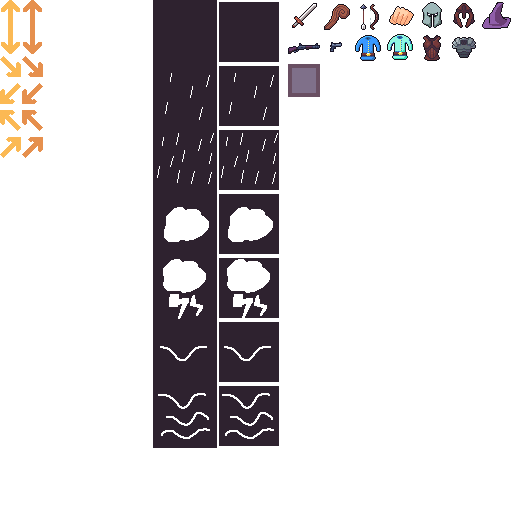
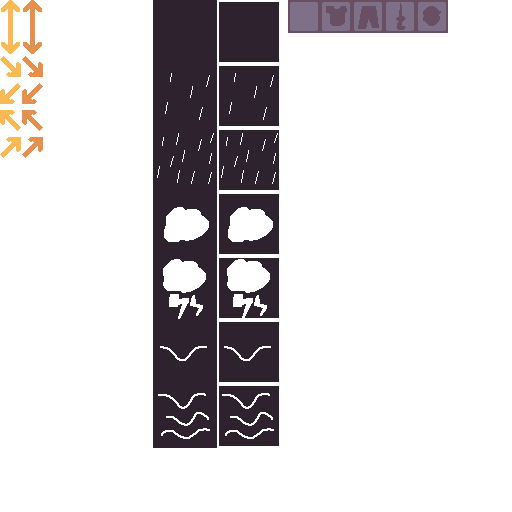
v0.5.853

Changed region(s): [[0.5625, 0.0, 1.0, 0.1875]]

diff --git a/gamestream_flutter/lib/game_inventory_ui.dart b/gamestream_flutter/lib/game_inventory_ui.dart
@@ -141,14 +141,7 @@ class GameInventoryUI {
             );
           },
           builder: (context, candidate, index){
-            return Engine.buildAtlasImage(
-              image: GameImages.atlasItems,
-              srcX: 0,
-              srcY: 64,
-              srcWidth: 32,
-              srcHeight: 32,
-              scale: Slot_Scale,
-            );
+            return buildAtlasIconSlotEmpty();
           },
         )
     );
@@ -161,14 +154,14 @@ class GameInventoryUI {
 
   static int getIndexColumn(int index) =>  index % ColumnsPerRow;
 
-  static Positioned buildPositionGridItem({required int index, required Widget child}) =>
+  static Widget buildPositionGridItem({required int index, required Widget child}) =>
     Positioned(
       left: getIndexX(index),
       top: getIndexY(index),
       child: child,
     );
 
-  static buildItemTypeAtlasImage({required int itemType, double scale = 1.0}) =>
+  static Widget buildItemTypeAtlasImage({required int itemType, double scale = 1.0}) =>
       Engine.buildAtlasImage(
         image: GameImages.atlasItems,
         srcX: AtlasItems.getSrcX(itemType),
@@ -176,5 +169,55 @@ class GameInventoryUI {
         srcWidth: Slot_Size,
         srcHeight: Slot_Size,
         scale: scale,
+      );
+
+  static Widget buildAtlasIconSlotEmpty() =>
+      Engine.buildAtlasImage(
+        image: GameImages.atlasIcons,
+        srcX: 288,
+        srcY: 0,
+        srcWidth: Slot_Size,
+        srcHeight: Slot_Size,
+        scale: Slot_Scale,
+      );
+
+  static Widget buildAtlasIconSlotArmour() =>
+      Engine.buildAtlasImage(
+        image: GameImages.atlasIcons,
+        srcX: 320,
+        srcY: 0,
+        srcWidth: Slot_Size,
+        srcHeight: Slot_Size,
+        scale: 1.0,
+      );
+
+  static Widget buildAtlasIconSlotLegs() =>
+      Engine.buildAtlasImage(
+        image: GameImages.atlasIcons,
+        srcX: 352,
+        srcY: 0,
+        srcWidth: Slot_Size,
+        srcHeight: Slot_Size,
+        scale: 1.0,
+      );
+
+  static Widget buildAtlasIconSlotWeapon() =>
+      Engine.buildAtlasImage(
+        image: GameImages.atlasIcons,
+        srcX: 384,
+        srcY: 0,
+        srcWidth: Slot_Size,
+        srcHeight: Slot_Size,
+        scale: 1.0,
+      );
+
+  static Widget buildAtlasIconSlotHead() =>
+      Engine.buildAtlasImage(
+        image: GameImages.atlasIcons,
+        srcX: 416,
+        srcY: 0,
+        srcWidth: Slot_Size,
+        srcHeight: Slot_Size,
+        scale: 1.0,
       );
 }

diff --git a/gamestream_flutter/lib/game_atlas.dart b/gamestream_flutter/lib/game_atlas.dart
@@ -5,7 +5,7 @@ class AtlasItems {
       ItemType.Weapon_Melee_Sword: 0,
       ItemType.Weapon_Melee_Magic_Staff: 32,
       ItemType.Weapon_Ranged_Bow: 64,
-      ItemType.Empty: 96,
+      ItemType.Empty: 224,
       ItemType.Head_Steel_Helm: 128,
       ItemType.Head_Rogues_Hood: 160,
       ItemType.Head_Wizards_Hat: 192,
@@ -18,13 +18,6 @@ class AtlasItems {
   }[itemType] ?? 0;
 
   static double getSrcY(int itemType) => <int, double> {
-    ItemType.Weapon_Melee_Sword: 0,
-    ItemType.Weapon_Melee_Magic_Staff: 0,
-    ItemType.Weapon_Ranged_Bow: 0,
-    ItemType.Empty: 96,
-    ItemType.Head_Steel_Helm: 0,
-    ItemType.Head_Rogues_Hood: 0,
-    ItemType.Head_Wizards_Hat: 0,
     ItemType.Weapon_Ranged_Shotgun: 32,
     ItemType.Weapon_Ranged_Handgun: 32,
     ItemType.Body_Shirt_Blue: 32,

diff --git a/bleed-common/lib/version.dart b/bleed-common/lib/version.dart
@@ -1,1 +1,1 @@
-const version = 'v0.5.854';
+const version = 'v0.5.855';

diff --git a/bleed-server/bin/common/version.dart b/bleed-server/bin/common/version.dart
@@ -1,1 +1,1 @@
-const version = 'v0.5.854';
+const version = 'v0.5.855';

diff --git a/gamestream_flutter/README.md b/gamestream_flutter/README.md
@@ -14,7 +14,11 @@
 [ ] editor fix add remove columns
 [ ] dark-age cursor interact with npc
 [ ] dark-age loot-drop
-    
+
+[ ] DARK-AGE
+[ ] MOON-LIGHT Expansion Pack
+[ ] FULL-MOON Expansion Pack
+[ ] BLUET
 
 02.11.2022
 [x] editor adding tree auto adds tree top
